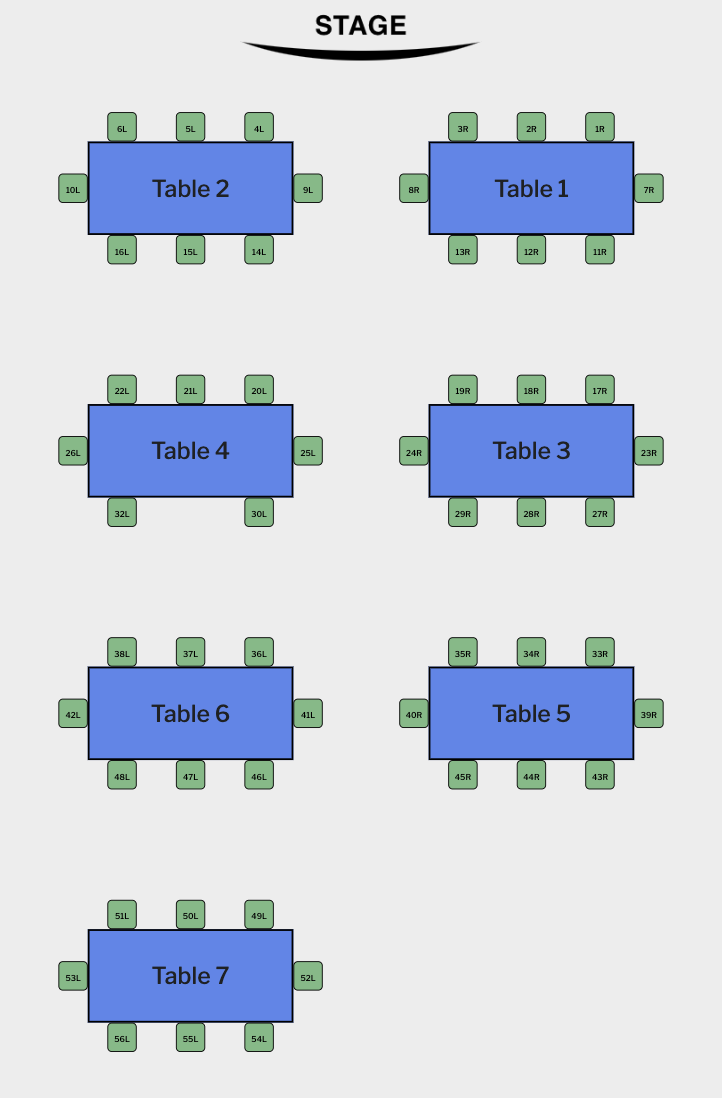
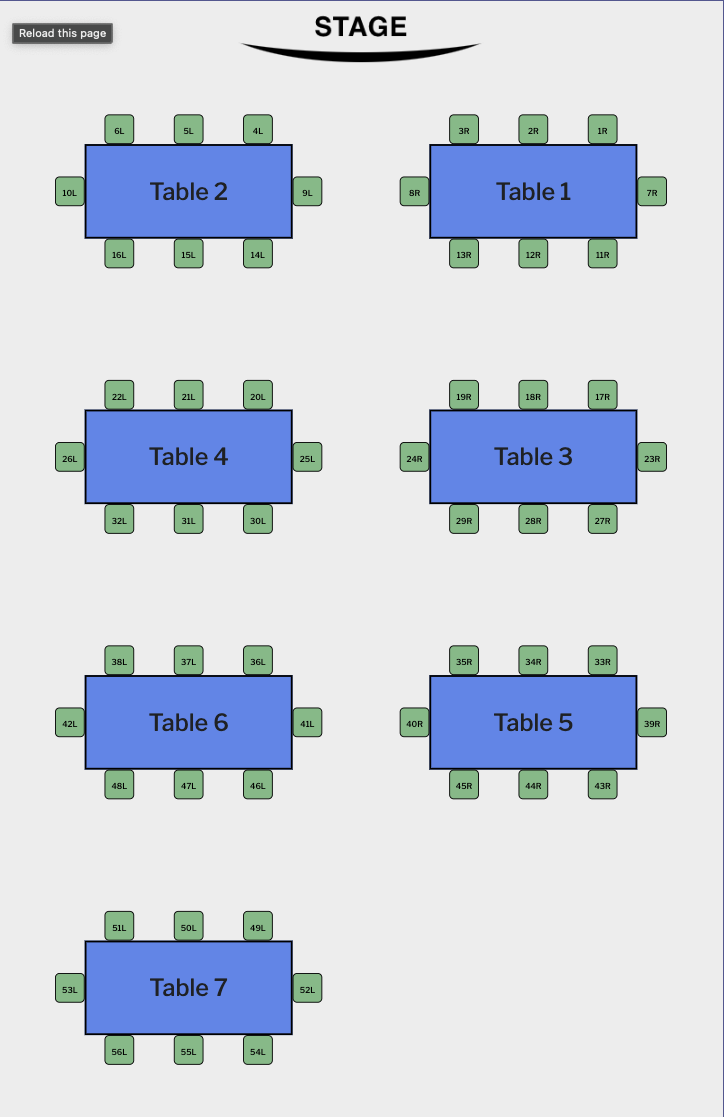
new venues

diff --git a/Completed/35232.html b/Completed/35232.html
@@ -233,8 +233,10 @@
                                       {{{ tablesMarkup.46370.32L }}}
                                     </div>
                                   </td>
-                                  <td>
-                                    <div></div>
+                                  <td valign="top">
+                                    <div align="center">
+                                      {{{ tablesMarkup.46370.31L }}}
+                                    </div>
                                   </td>
                                   <td valign="top">
                                     <div align="center">
